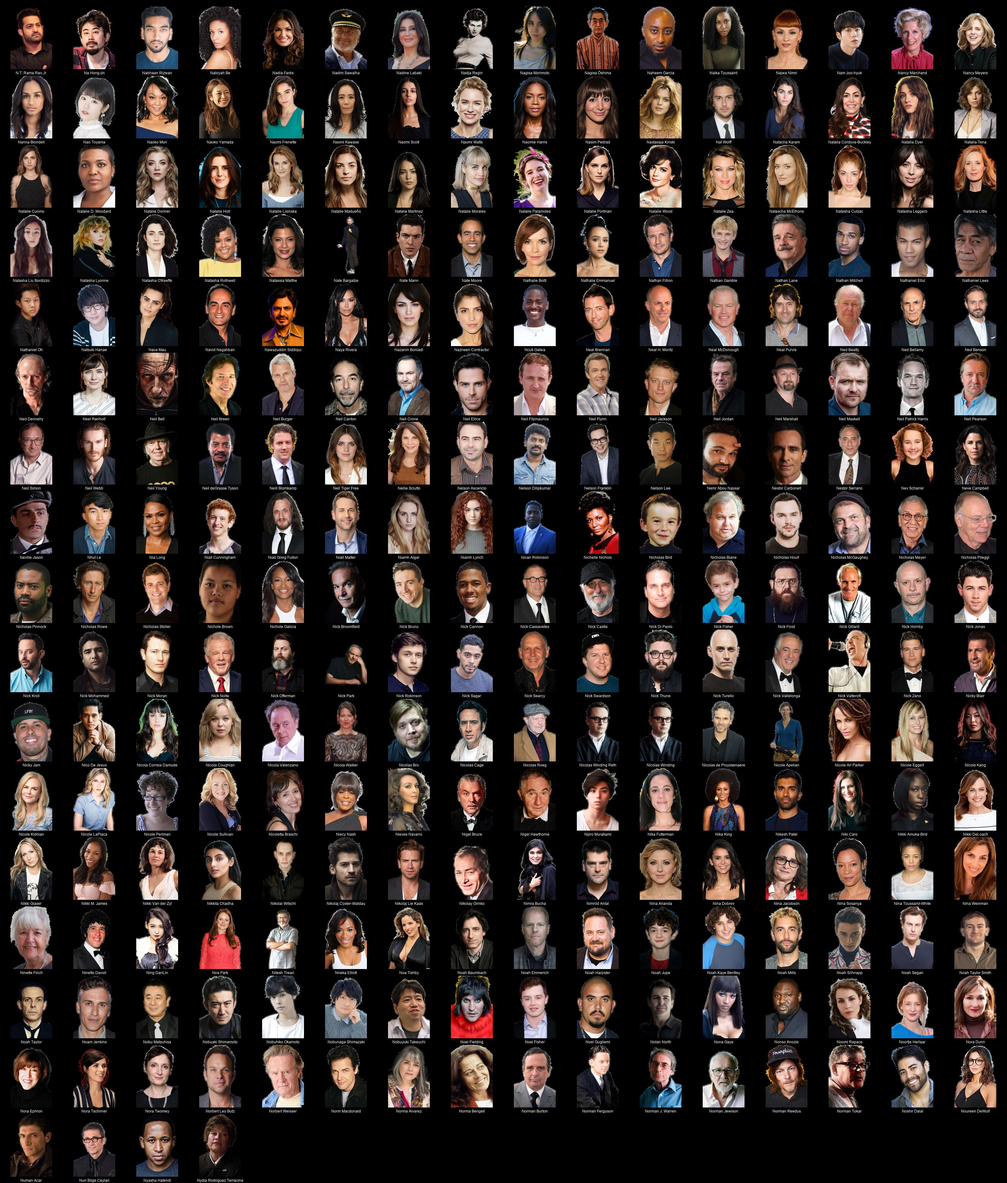
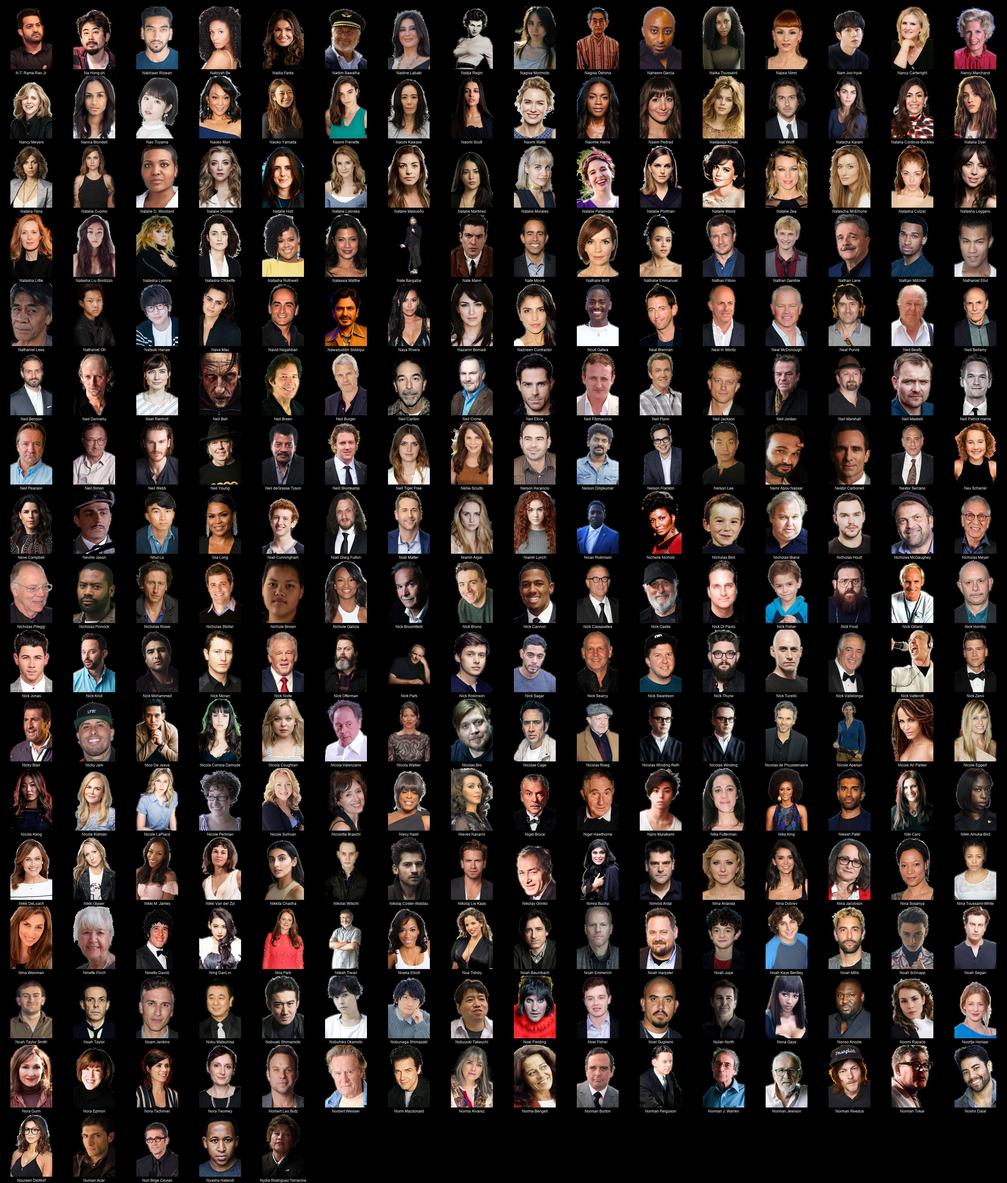
updated grids

diff --git a/README.md b/README.md
@@ -1,4 +1,4 @@
-# Kometa People Images - Transparent (transparent) (9358 Images)
+# Kometa People Images - Transparent (transparent) (9362 Images)
 
 <details><summary><a href="'">' (1 Images)</a></summary>
 
@@ -3642,7 +3642,7 @@
 * [Izaac Wang](https://raw.githubusercontent.com/Kometa-Team/People-Images-transparent/master/I/Images/Izaac%20Wang.png)
 * [Izabella Scorupco](https://raw.githubusercontent.com/Kometa-Team/People-Images-transparent/master/I/Images/Izabella%20Scorupco.png)
 </details>
-<details><summary><a href="J">J (1155 Images)</a></summary>
+<details><summary><a href="J">J (1156 Images)</a></summary>
 
 * [J'Dvonte](https://raw.githubusercontent.com/Kometa-Team/People-Images-transparent/master/J/Images/J%27Dvonte.png)
 * [J. A. Bayona](https://raw.githubusercontent.com/Kometa-Team/People-Images-transparent/master/J/Images/J.%20A.%20Bayona.png)
@@ -4000,6 +4000,7 @@
 * [Jean-Pierre Melville](https://raw.githubusercontent.com/Kometa-Team/People-Images-transparent/master/J/Images/Jean-Pierre%20Melville.png)
 * [Jeanine Serralles](https://raw.githubusercontent.com/Kometa-Team/People-Images-transparent/master/J/Images/Jeanine%20Serralles.png)
 * [Jeanne Martin](https://raw.githubusercontent.com/Kometa-Team/People-Images-transparent/master/J/Images/Jeanne%20Martin.png)
+* [Jeannie Elias](https://raw.githubusercontent.com/Kometa-Team/People-Images-transparent/master/J/Images/Jeannie%20Elias.png)
 * [Jeb Stuart](https://raw.githubusercontent.com/Kometa-Team/People-Images-transparent/master/J/Images/Jeb%20Stuart.png)
 * [Jed Brophy](https://raw.githubusercontent.com/Kometa-Team/People-Images-transparent/master/J/Images/Jed%20Brophy.png)
 * [Jed Rees](https://raw.githubusercontent.com/Kometa-Team/People-Images-transparent/master/J/Images/Jed%20Rees.png)
@@ -6531,7 +6532,7 @@
 * [Måns Nathanaelson](https://raw.githubusercontent.com/Kometa-Team/People-Images-transparent/master/M/Images/M%C3%A5ns%20Nathanaelson.png)
 * [Mélanie Laurent](https://raw.githubusercontent.com/Kometa-Team/People-Images-transparent/master/M/Images/M%C3%A9lanie%20Laurent.png)
 </details>
-<details><summary><a href="N">N (260 Images)</a></summary>
+<details><summary><a href="N">N (261 Images)</a></summary>
 
 * [N.T. Rama Rao Jr.](https://raw.githubusercontent.com/Kometa-Team/People-Images-transparent/master/N/Images/N.T.%20Rama%20Rao%20Jr..png)
 * [Na Hong-jin](https://raw.githubusercontent.com/Kometa-Team/People-Images-transparent/master/N/Images/Na%20Hong-jin.png)
@@ -6547,6 +6548,7 @@
 * [Naika Toussaint](https://raw.githubusercontent.com/Kometa-Team/People-Images-transparent/master/N/Images/Naika%20Toussaint.png)
 * [Najwa Nimri](https://raw.githubusercontent.com/Kometa-Team/People-Images-transparent/master/N/Images/Najwa%20Nimri.png)
 * [Nam Joo-hyuk](https://raw.githubusercontent.com/Kometa-Team/People-Images-transparent/master/N/Images/Nam%20Joo-hyuk.png)
+* [Nancy Cartwright](https://raw.githubusercontent.com/Kometa-Team/People-Images-transparent/master/N/Images/Nancy%20Cartwright.png)
 * [Nancy Marchand](https://raw.githubusercontent.com/Kometa-Team/People-Images-transparent/master/N/Images/Nancy%20Marchand.png)
 * [Nancy Meyers](https://raw.githubusercontent.com/Kometa-Team/People-Images-transparent/master/N/Images/Nancy%20Meyers.png)
 * [Nanna Blondell](https://raw.githubusercontent.com/Kometa-Team/People-Images-transparent/master/N/Images/Nanna%20Blondell.png)
@@ -7261,7 +7263,7 @@
 * [Quinn Duffy](https://raw.githubusercontent.com/Kometa-Team/People-Images-transparent/master/Q/Images/Quinn%20Duffy.png)
 * [Quinton Jackson](https://raw.githubusercontent.com/Kometa-Team/People-Images-transparent/master/Q/Images/Quinton%20Jackson.png)
 </details>
-<details><summary><a href="R">R (599 Images)</a></summary>
+<details><summary><a href="R">R (600 Images)</a></summary>
 
 * [R. Lee Ermey](https://raw.githubusercontent.com/Kometa-Team/People-Images-transparent/master/R/Images/R.%20Lee%20Ermey.png)
 * [R. Madhavan](https://raw.githubusercontent.com/Kometa-Team/People-Images-transparent/master/R/Images/R.%20Madhavan.png)
@@ -7821,6 +7823,7 @@
 * [Russell Tovey](https://raw.githubusercontent.com/Kometa-Team/People-Images-transparent/master/R/Images/Russell%20Tovey.png)
 * [Russell W. Howard](https://raw.githubusercontent.com/Kometa-Team/People-Images-transparent/master/R/Images/Russell%20W.%20Howard.png)
 * [Russell Wong](https://raw.githubusercontent.com/Kometa-Team/People-Images-transparent/master/R/Images/Russell%20Wong.png)
+* [Russi Taylor](https://raw.githubusercontent.com/Kometa-Team/People-Images-transparent/master/R/Images/Russi%20Taylor.png)
 * [Ruta Gedmintas](https://raw.githubusercontent.com/Kometa-Team/People-Images-transparent/master/R/Images/Ruta%20Gedmintas.png)
 * [Rutger Hauer](https://raw.githubusercontent.com/Kometa-Team/People-Images-transparent/master/R/Images/Rutger%20Hauer.png)
 * [Ruth Gordon](https://raw.githubusercontent.com/Kometa-Team/People-Images-transparent/master/R/Images/Ruth%20Gordon.png)
@@ -9305,7 +9308,7 @@
 * [Xochitl Gomez](https://raw.githubusercontent.com/Kometa-Team/People-Images-transparent/master/X/Images/Xochitl%20Gomez.png)
 * [Xolo Mariduena](https://raw.githubusercontent.com/Kometa-Team/People-Images-transparent/master/X/Images/Xolo%20Mariduena.png)
 </details>
-<details><summary><a href="Y">Y (69 Images)</a></summary>
+<details><summary><a href="Y">Y (70 Images)</a></summary>
 
 * [Y. Ravi Shankar](https://raw.githubusercontent.com/Kometa-Team/People-Images-transparent/master/Y/Images/Y.%20Ravi%20Shankar.png)
 * [Yahya Abdul-Mateen II](https://raw.githubusercontent.com/Kometa-Team/People-Images-transparent/master/Y/Images/Yahya%20Abdul-Mateen%20II.png)
@@ -9352,6 +9355,7 @@
 * [Yui Ogura](https://raw.githubusercontent.com/Kometa-Team/People-Images-transparent/master/Y/Images/Yui%20Ogura.png)
 * [Yuichi Nakamura](https://raw.githubusercontent.com/Kometa-Team/People-Images-transparent/master/Y/Images/Yuichi%20Nakamura.png)
 * [Yuji Okumoto](https://raw.githubusercontent.com/Kometa-Team/People-Images-transparent/master/Y/Images/Yuji%20Okumoto.png)
+* [Yuji Ueda](https://raw.githubusercontent.com/Kometa-Team/People-Images-transparent/master/Y/Images/Yuji%20Ueda.png)
 * [Yuka Iguchi](https://raw.githubusercontent.com/Kometa-Team/People-Images-transparent/master/Y/Images/Yuka%20Iguchi.png)
 * [Yukari Tamura](https://raw.githubusercontent.com/Kometa-Team/People-Images-transparent/master/Y/Images/Yukari%20Tamura.png)
 * [Yuki Kaji](https://raw.githubusercontent.com/Kometa-Team/People-Images-transparent/master/Y/Images/Yuki%20Kaji.png)

diff --git a/N/README.md b/N/README.md
@@ -1,4 +1,4 @@
-# Kometa People Images - Transparent (transparent) - N (260 Images)
+# Kometa People Images - Transparent (transparent) - N (261 Images)
 ![Grid](grid.jpg)
 
 * [N.T. Rama Rao Jr.](https://raw.githubusercontent.com/Kometa-Team/People-Images-transparent/master/N/Images/N.T.%20Rama%20Rao%20Jr..png)
@@ -15,6 +15,7 @@
 * [Naika Toussaint](https://raw.githubusercontent.com/Kometa-Team/People-Images-transparent/master/N/Images/Naika%20Toussaint.png)
 * [Najwa Nimri](https://raw.githubusercontent.com/Kometa-Team/People-Images-transparent/master/N/Images/Najwa%20Nimri.png)
 * [Nam Joo-hyuk](https://raw.githubusercontent.com/Kometa-Team/People-Images-transparent/master/N/Images/Nam%20Joo-hyuk.png)
+* [Nancy Cartwright](https://raw.githubusercontent.com/Kometa-Team/People-Images-transparent/master/N/Images/Nancy%20Cartwright.png)
 * [Nancy Marchand](https://raw.githubusercontent.com/Kometa-Team/People-Images-transparent/master/N/Images/Nancy%20Marchand.png)
 * [Nancy Meyers](https://raw.githubusercontent.com/Kometa-Team/People-Images-transparent/master/N/Images/Nancy%20Meyers.png)
 * [Nanna Blondell](https://raw.githubusercontent.com/Kometa-Team/People-Images-transparent/master/N/Images/Nanna%20Blondell.png)

diff --git a/R/README.md b/R/README.md
@@ -1,4 +1,4 @@
-# Kometa People Images - Transparent (transparent) - R (599 Images)
+# Kometa People Images - Transparent (transparent) - R (600 Images)
 ![Grid](grid.jpg)
 
 * [R. Lee Ermey](https://raw.githubusercontent.com/Kometa-Team/People-Images-transparent/master/R/Images/R.%20Lee%20Ermey.png)
@@ -559,6 +559,7 @@
 * [Russell Tovey](https://raw.githubusercontent.com/Kometa-Team/People-Images-transparent/master/R/Images/Russell%20Tovey.png)
 * [Russell W. Howard](https://raw.githubusercontent.com/Kometa-Team/People-Images-transparent/master/R/Images/Russell%20W.%20Howard.png)
 * [Russell Wong](https://raw.githubusercontent.com/Kometa-Team/People-Images-transparent/master/R/Images/Russell%20Wong.png)
+* [Russi Taylor](https://raw.githubusercontent.com/Kometa-Team/People-Images-transparent/master/R/Images/Russi%20Taylor.png)
 * [Ruta Gedmintas](https://raw.githubusercontent.com/Kometa-Team/People-Images-transparent/master/R/Images/Ruta%20Gedmintas.png)
 * [Rutger Hauer](https://raw.githubusercontent.com/Kometa-Team/People-Images-transparent/master/R/Images/Rutger%20Hauer.png)
 * [Ruth Gordon](https://raw.githubusercontent.com/Kometa-Team/People-Images-transparent/master/R/Images/Ruth%20Gordon.png)

diff --git a/J/README.md b/J/README.md
@@ -1,4 +1,4 @@
-# Kometa People Images - Transparent (transparent) - J (1155 Images)
+# Kometa People Images - Transparent (transparent) - J (1156 Images)
 ![Grid](grid.jpg)
 
 * [J'Dvonte](https://raw.githubusercontent.com/Kometa-Team/People-Images-transparent/master/J/Images/J%27Dvonte.png)
@@ -357,6 +357,7 @@
 * [Jean-Pierre Melville](https://raw.githubusercontent.com/Kometa-Team/People-Images-transparent/master/J/Images/Jean-Pierre%20Melville.png)
 * [Jeanine Serralles](https://raw.githubusercontent.com/Kometa-Team/People-Images-transparent/master/J/Images/Jeanine%20Serralles.png)
 * [Jeanne Martin](https://raw.githubusercontent.com/Kometa-Team/People-Images-transparent/master/J/Images/Jeanne%20Martin.png)
+* [Jeannie Elias](https://raw.githubusercontent.com/Kometa-Team/People-Images-transparent/master/J/Images/Jeannie%20Elias.png)
 * [Jeb Stuart](https://raw.githubusercontent.com/Kometa-Team/People-Images-transparent/master/J/Images/Jeb%20Stuart.png)
 * [Jed Brophy](https://raw.githubusercontent.com/Kometa-Team/People-Images-transparent/master/J/Images/Jed%20Brophy.png)
 * [Jed Rees](https://raw.githubusercontent.com/Kometa-Team/People-Images-transparent/master/J/Images/Jed%20Rees.png)

diff --git a/Y/README.md b/Y/README.md
@@ -1,4 +1,4 @@
-# Kometa People Images - Transparent (transparent) - Y (69 Images)
+# Kometa People Images - Transparent (transparent) - Y (70 Images)
 ![Grid](grid.jpg)
 
 * [Y. Ravi Shankar](https://raw.githubusercontent.com/Kometa-Team/People-Images-transparent/master/Y/Images/Y.%20Ravi%20Shankar.png)
@@ -46,6 +46,7 @@
 * [Yui Ogura](https://raw.githubusercontent.com/Kometa-Team/People-Images-transparent/master/Y/Images/Yui%20Ogura.png)
 * [Yuichi Nakamura](https://raw.githubusercontent.com/Kometa-Team/People-Images-transparent/master/Y/Images/Yuichi%20Nakamura.png)
 * [Yuji Okumoto](https://raw.githubusercontent.com/Kometa-Team/People-Images-transparent/master/Y/Images/Yuji%20Okumoto.png)
+* [Yuji Ueda](https://raw.githubusercontent.com/Kometa-Team/People-Images-transparent/master/Y/Images/Yuji%20Ueda.png)
 * [Yuka Iguchi](https://raw.githubusercontent.com/Kometa-Team/People-Images-transparent/master/Y/Images/Yuka%20Iguchi.png)
 * [Yukari Tamura](https://raw.githubusercontent.com/Kometa-Team/People-Images-transparent/master/Y/Images/Yukari%20Tamura.png)
 * [Yuki Kaji](https://raw.githubusercontent.com/Kometa-Team/People-Images-transparent/master/Y/Images/Yuki%20Kaji.png)
